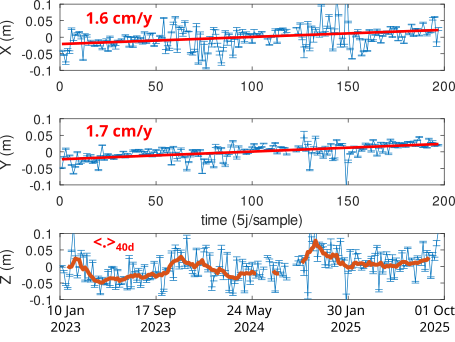
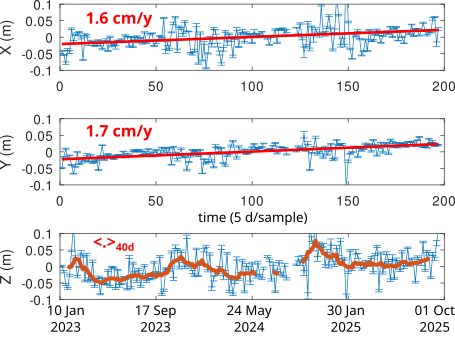
RTKLib PPP

Changed region(s): [[0.4308, 0.614, 0.6769, 0.6725]]

diff --git a/RTKLib_PPP/processall.m b/RTKLib_PPP/processall.m
@@ -34,7 +34,7 @@ errorbar(solz-mean(solz),stdz)
 xlim([0 200])
 ylim([-0.1 0.1])
 ylabel('Z (m)')
-xlabel('time (5j/sample)')
+xlabel('time (5 d/sample)')
 N=8
 zc=conv(solz,ones(N,1)/N);zc=zc(N:end-N);
 hold on
